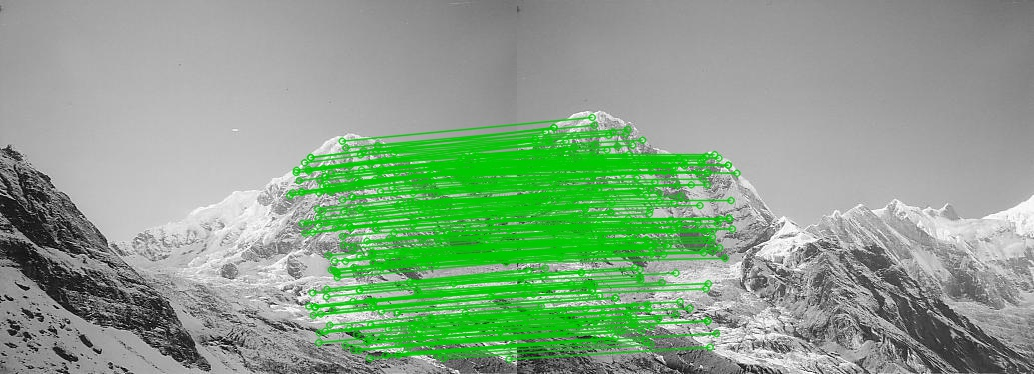
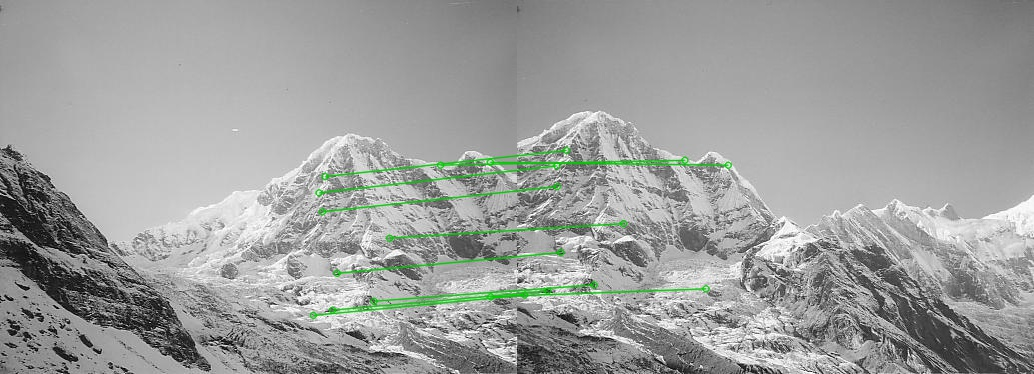
Implemented code for random inliers

Changed region(s): [[0.2785, 0.2941, 0.7118, 0.9706]]

diff --git a/Project 2/Task 1/imgFeaturesHomography.py b/Project 2/Task 1/imgFeaturesHomography.py
@@ -6,6 +6,7 @@
 import cv2
 import  numpy as np
 from functions import generateKeypoints,generateMatches
+import random
 
 # Task1.1
 image1 = cv2.imread("Images/mountain1.jpg")
@@ -40,12 +41,24 @@ homographyMatrix, inOut = cv2.findHomography(sourcePoints, destinationPoints, cv
 print("Old Homography matrix H is: \n",homographyMatrix)
 matchedMask = inOut.ravel().tolist() # ravel is used to flatten the inOut array
 
-unique, counts = np.unique(matchedMask, return_counts=True)
-print("\n Inliers and Outliers Stats: ",dict(zip(unique, counts)))
+#  Calculate 10 random inliers
+matchedMask2 = np.zeros(len(matchedMask))
+matchedMask2 = matchedMask2.tolist()
+count = 0
+print("started random")
+while count <= 10:
+    index = random.randint(0, len(matchedMask))
+    if matchedMask[index] == 1:
+        matchedMask2[index] = 1
+        count += 1
 
-parameters = dict(matchColor = (0,200,0), # draw matches in black color
+print(matchedMask2)
+unique, counts = np.unique(matchedMask, return_counts=True)
+print("\n Inliers and Outliers Stats: ", dict(zip(unique, counts)))
+
+parameters = dict(matchColor = (0, 200, 0), # draw matches in black color
                 singlePointColor = None,
-                matchesMask = matchedMask, # draw only inliers
+                matchesMask = matchedMask2, # draw only inliers
                 flags = 2)
 
 img5 = cv2.drawMatches(image1G, keyPointImage1, image2G, keyPointImage2, goodMatches, None, **parameters)
@@ -68,7 +81,7 @@ x, y, boundedWidth, boundedHeight = cv2.boundingRect(corners)
 intermediateTransformationMatrix = np.array([
   [ 1, 0, -x ],
   [ 0, 1, -y ],
-  [ 0, 0,   1 ]
+  [ 0, 0,  1 ]
 ])
 
 homographyMatrix = intermediateTransformationMatrix.dot(homographyMatrix)
@@ -82,7 +95,7 @@ print("\n New Homography matrix H is: \n",homographyMatrix)
 result1 = cv2.warpPerspective(image1G, homographyMatrix, (boundedWidth, boundedHeight), flags=cv2.INTER_CUBIC)
 
 #  Creating a blank image
-result = np.zeros((max(boundedHeight+1, height2), width2+width2), dtype=np.uint8)
+result = np.zeros((max(boundedHeight, height2), width2+width2), dtype=np.uint8)
 
 print("shape of result:",result.shape)
 print("shape of result1:",result1.shape)

diff --git a/Project 2/Task 3/functions.py b/Project 2/Task 3/functions.py
@@ -80,7 +80,15 @@ def plotClusters(X,clusterCenters,XClassified,fineName):
     plt.clf()
 
 def calculateColorDistance(clusterCenters,image,colorDistance):
-    for imgX in range(len(image.shape[1])):
-        for imgY in range(len(image.shape[0])):
-            
+    XDistanceTemp = []
+    print("in function")
+    for imgX in range(image.shape[0]-262143):
+        x = image[imgX]
+        for centers in range(len(clusterCenters)):
+            y = clusterCenters[centers]
+            print(x,y)
+            print(np.linalg.norm(x-y))
+            # colorDistance.append(XDistanceTemp)
+            # colorDistance[imgX,imgY] = XDistanceTemp
     return colorDistance
+

diff --git a/Project 2/Task 3/kMeansFull.py b/Project 2/Task 3/kMeansFull.py
@@ -1,5 +1,5 @@
 import numpy as np
-from functions import calculateDistance,chooseCenteroid,caculateNewMean,plotClusters
+from functions import calculateColorDistance
 import matplotlib.pyplot  as plt
 import cv2
 import random
@@ -18,6 +18,6 @@ for times in range(noOfClusters):
 # to get rid of the dtype info
 clusterCenters = np.array(clusterCenters)
 print(clusterCenters)
-
-colorDistance = []
-
+image = image.reshape((image.shape[0] * image.shape[1], 3))
+print(image.shape)
+colorDistance = calculateColorDistance(clusterCenters, image, clusterCenters)
